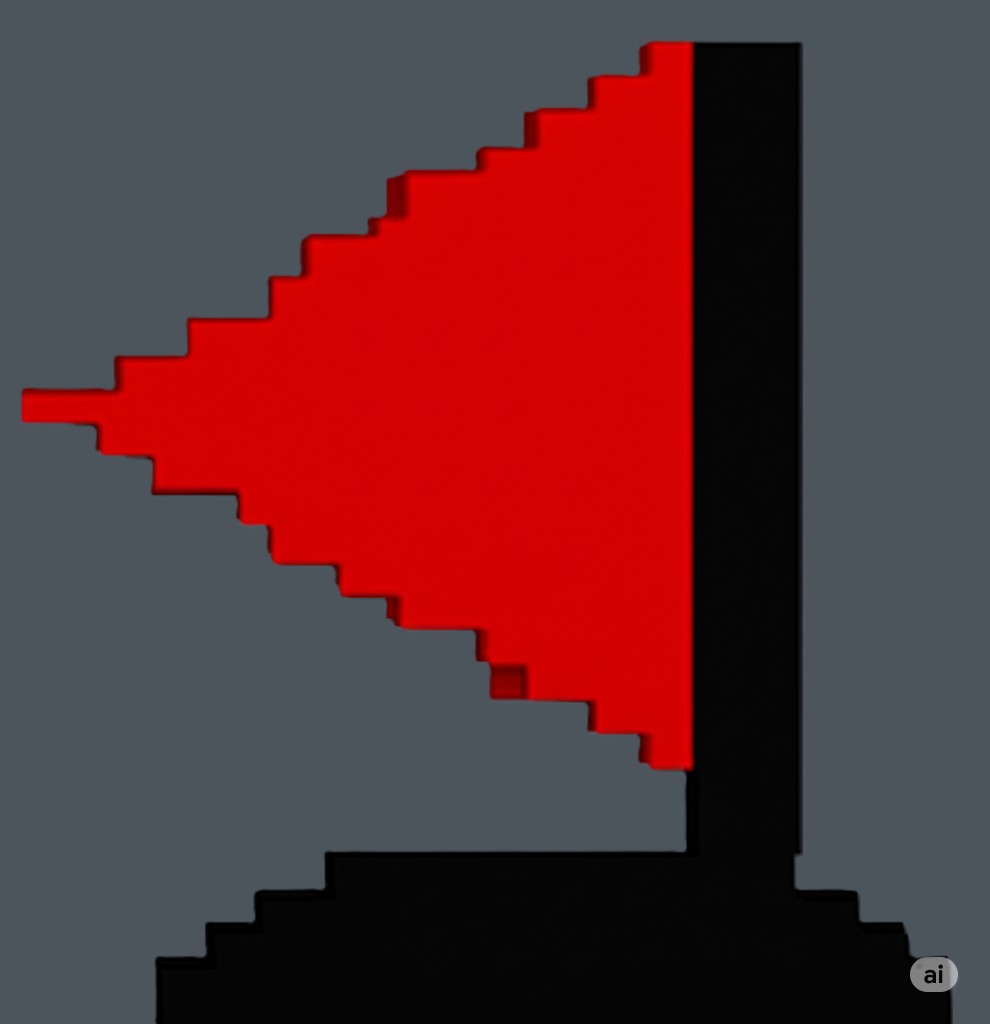
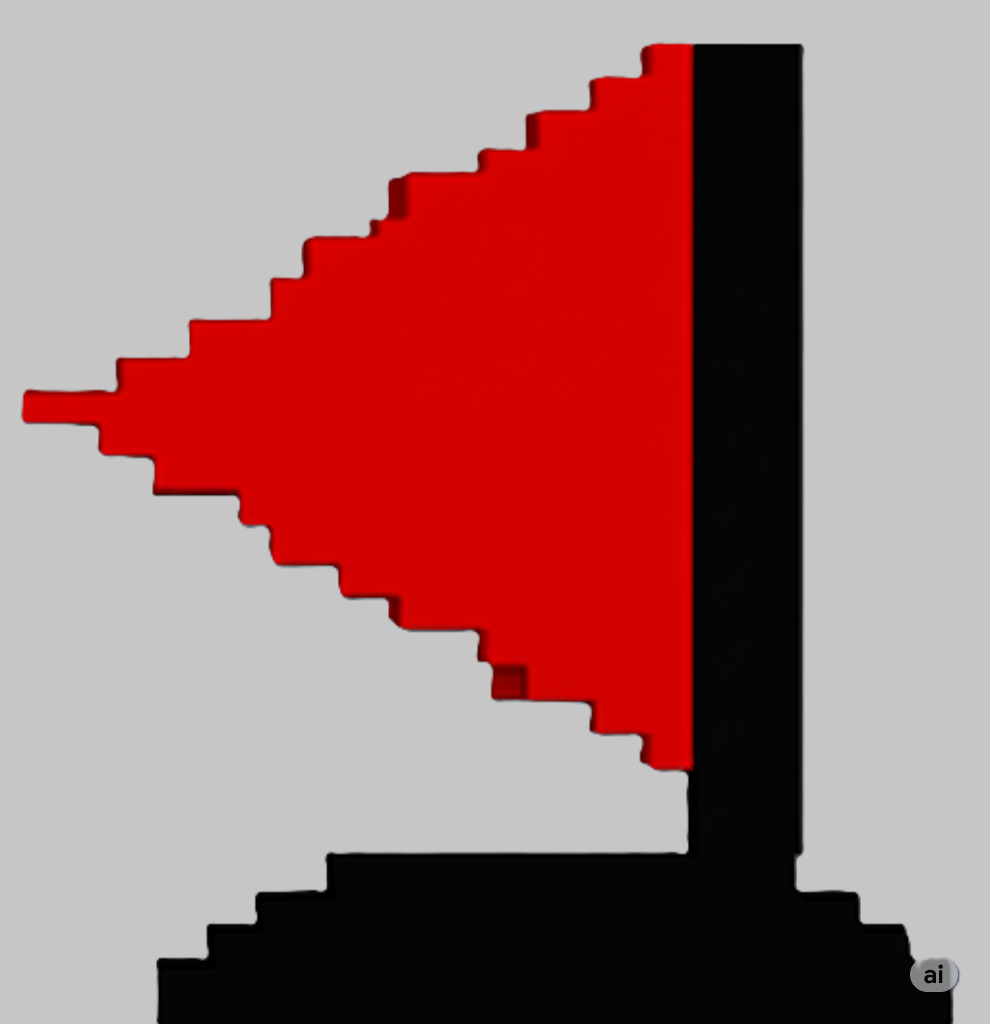
旗とはてなの背景を修正

diff --git a/src/app/page.module.css b/src/app/page.module.css
@@ -135,7 +135,7 @@
   width: 30px;
   height: 30px;
   background: url('~/src/assets/images/flag.png') no-repeat;
-  background-color: rgb(76 84 92);
+  background-color: #c6c6c6;
   background-size: 100%;
   border-top: 4px solid #fff;
   border-right: 4px solid #808080;
@@ -148,7 +148,7 @@
   width: 30px;
   height: 30px;
   background: url('~/src/assets/images/question.png') no-repeat;
-  background-color: rgb(76 84 92);
+  background-color: #c6c6c6;
   background-size: 100%;
   border-top: 4px solid #fff;
   border-right: 4px solid #808080;
